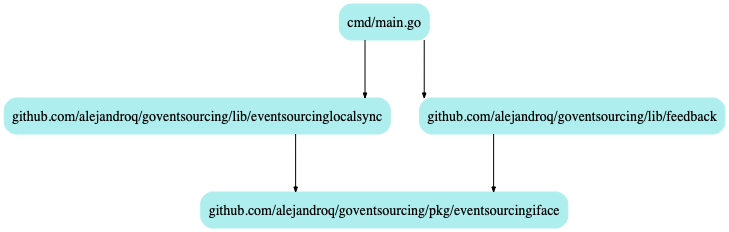
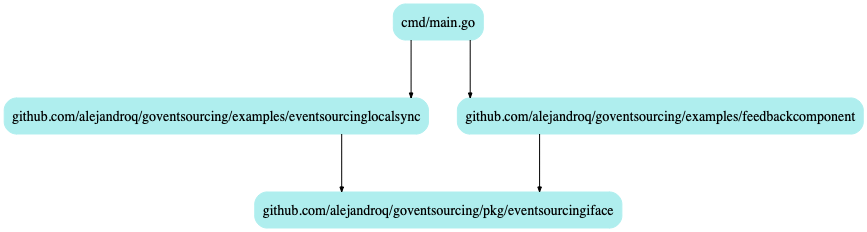
reordered some things

diff --git a/cmd/main.go b/cmd/main.go
@@ -1,8 +1,8 @@
 package main
 
 import (
-	"github.com/alejandroq/goventsourcing/example/eventsourcinglocalsync"
-	"github.com/alejandroq/goventsourcing/example/feedbackcomponent"
+	"github.com/alejandroq/goventsourcing/examples/eventsourcinglocalsync"
+	"github.com/alejandroq/goventsourcing/examples/feedbackcomponent"
 )
 
 func main() {
